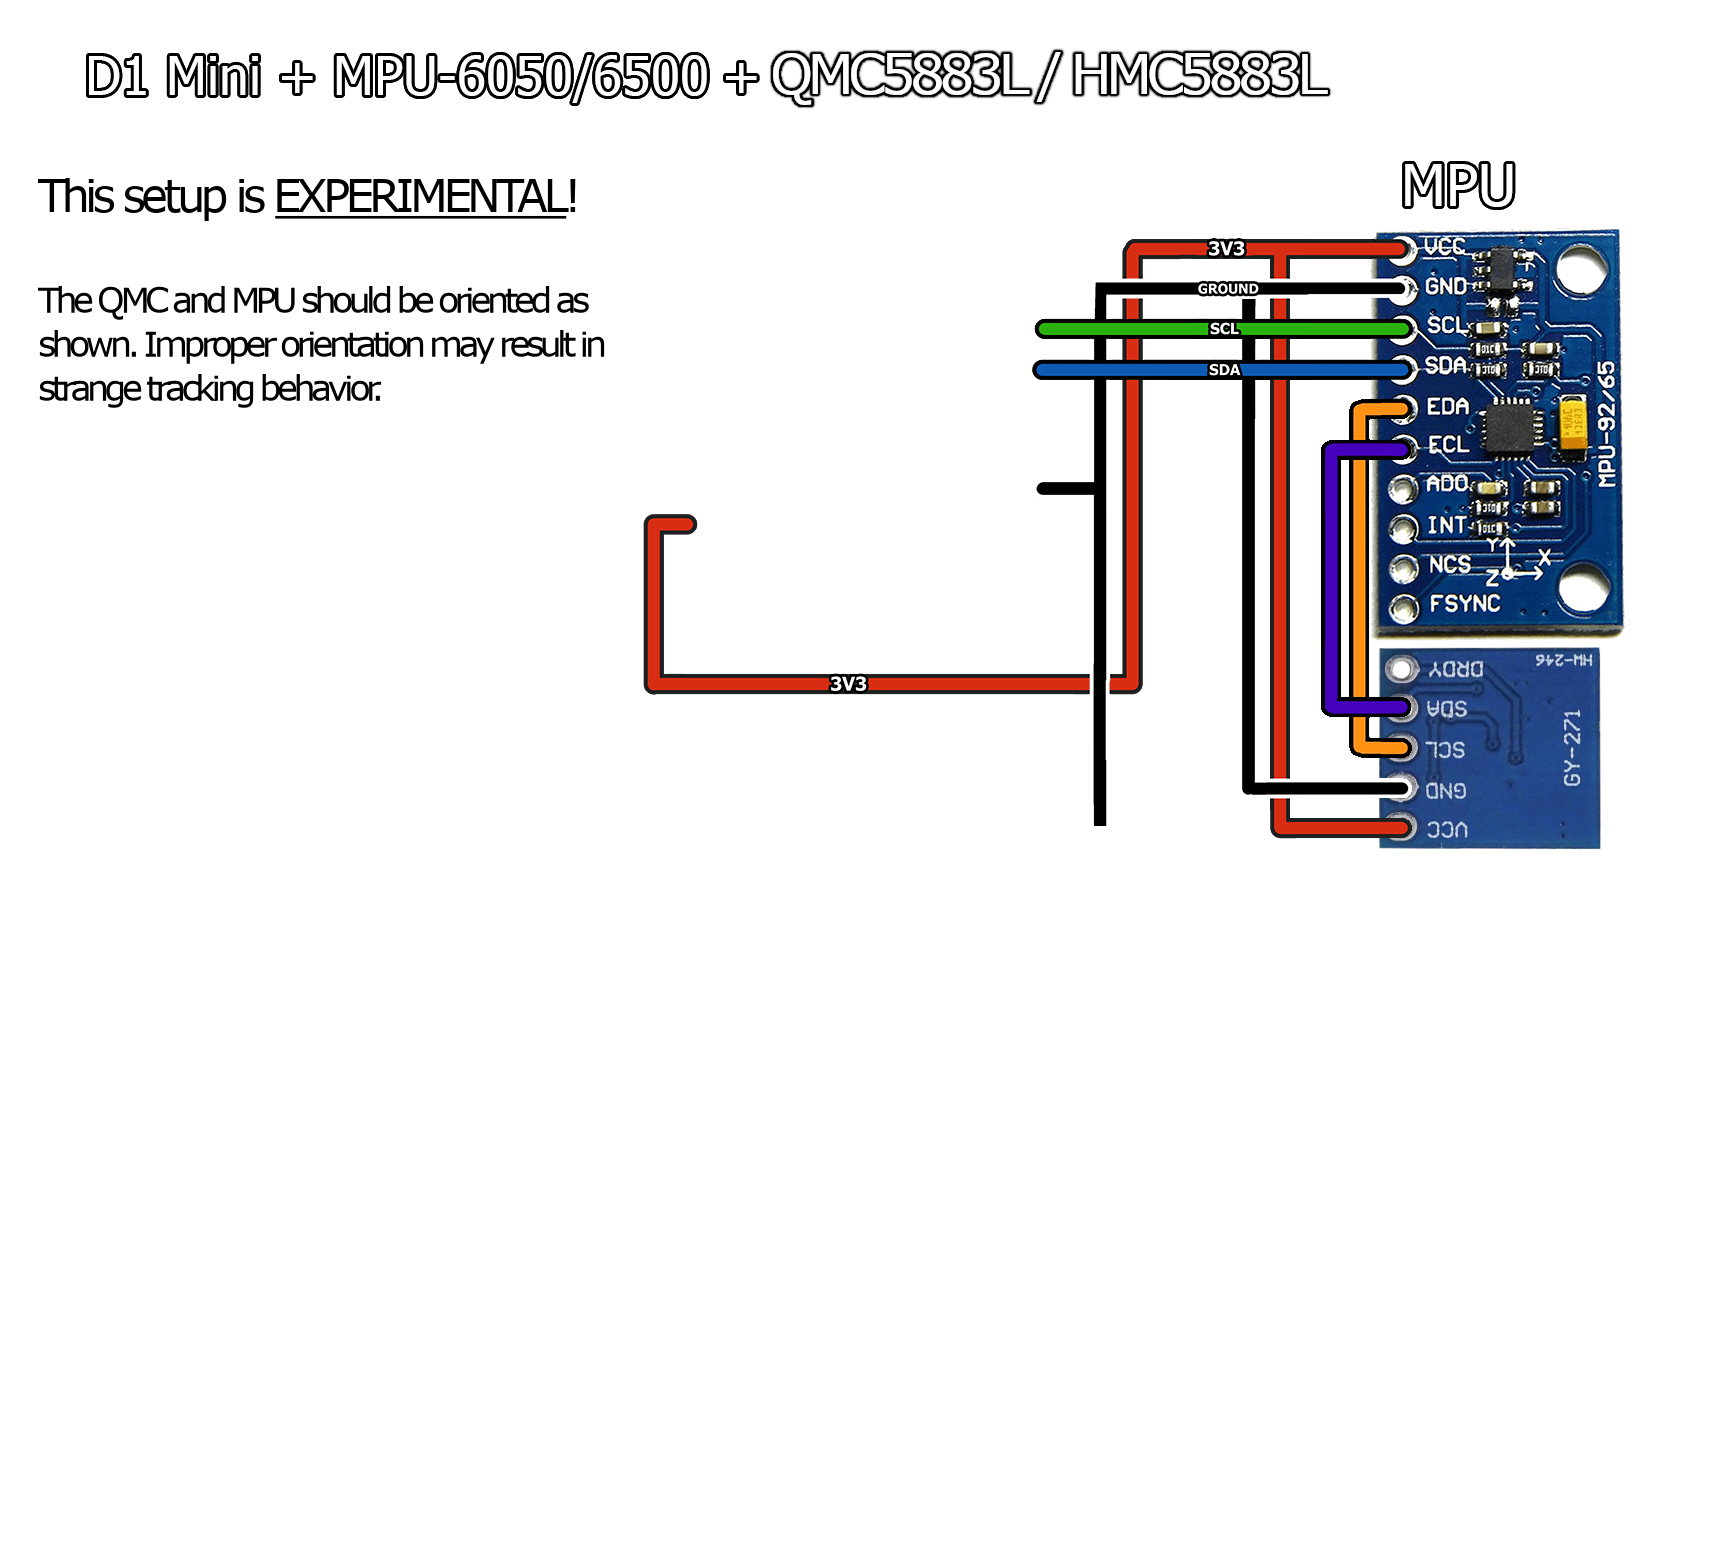
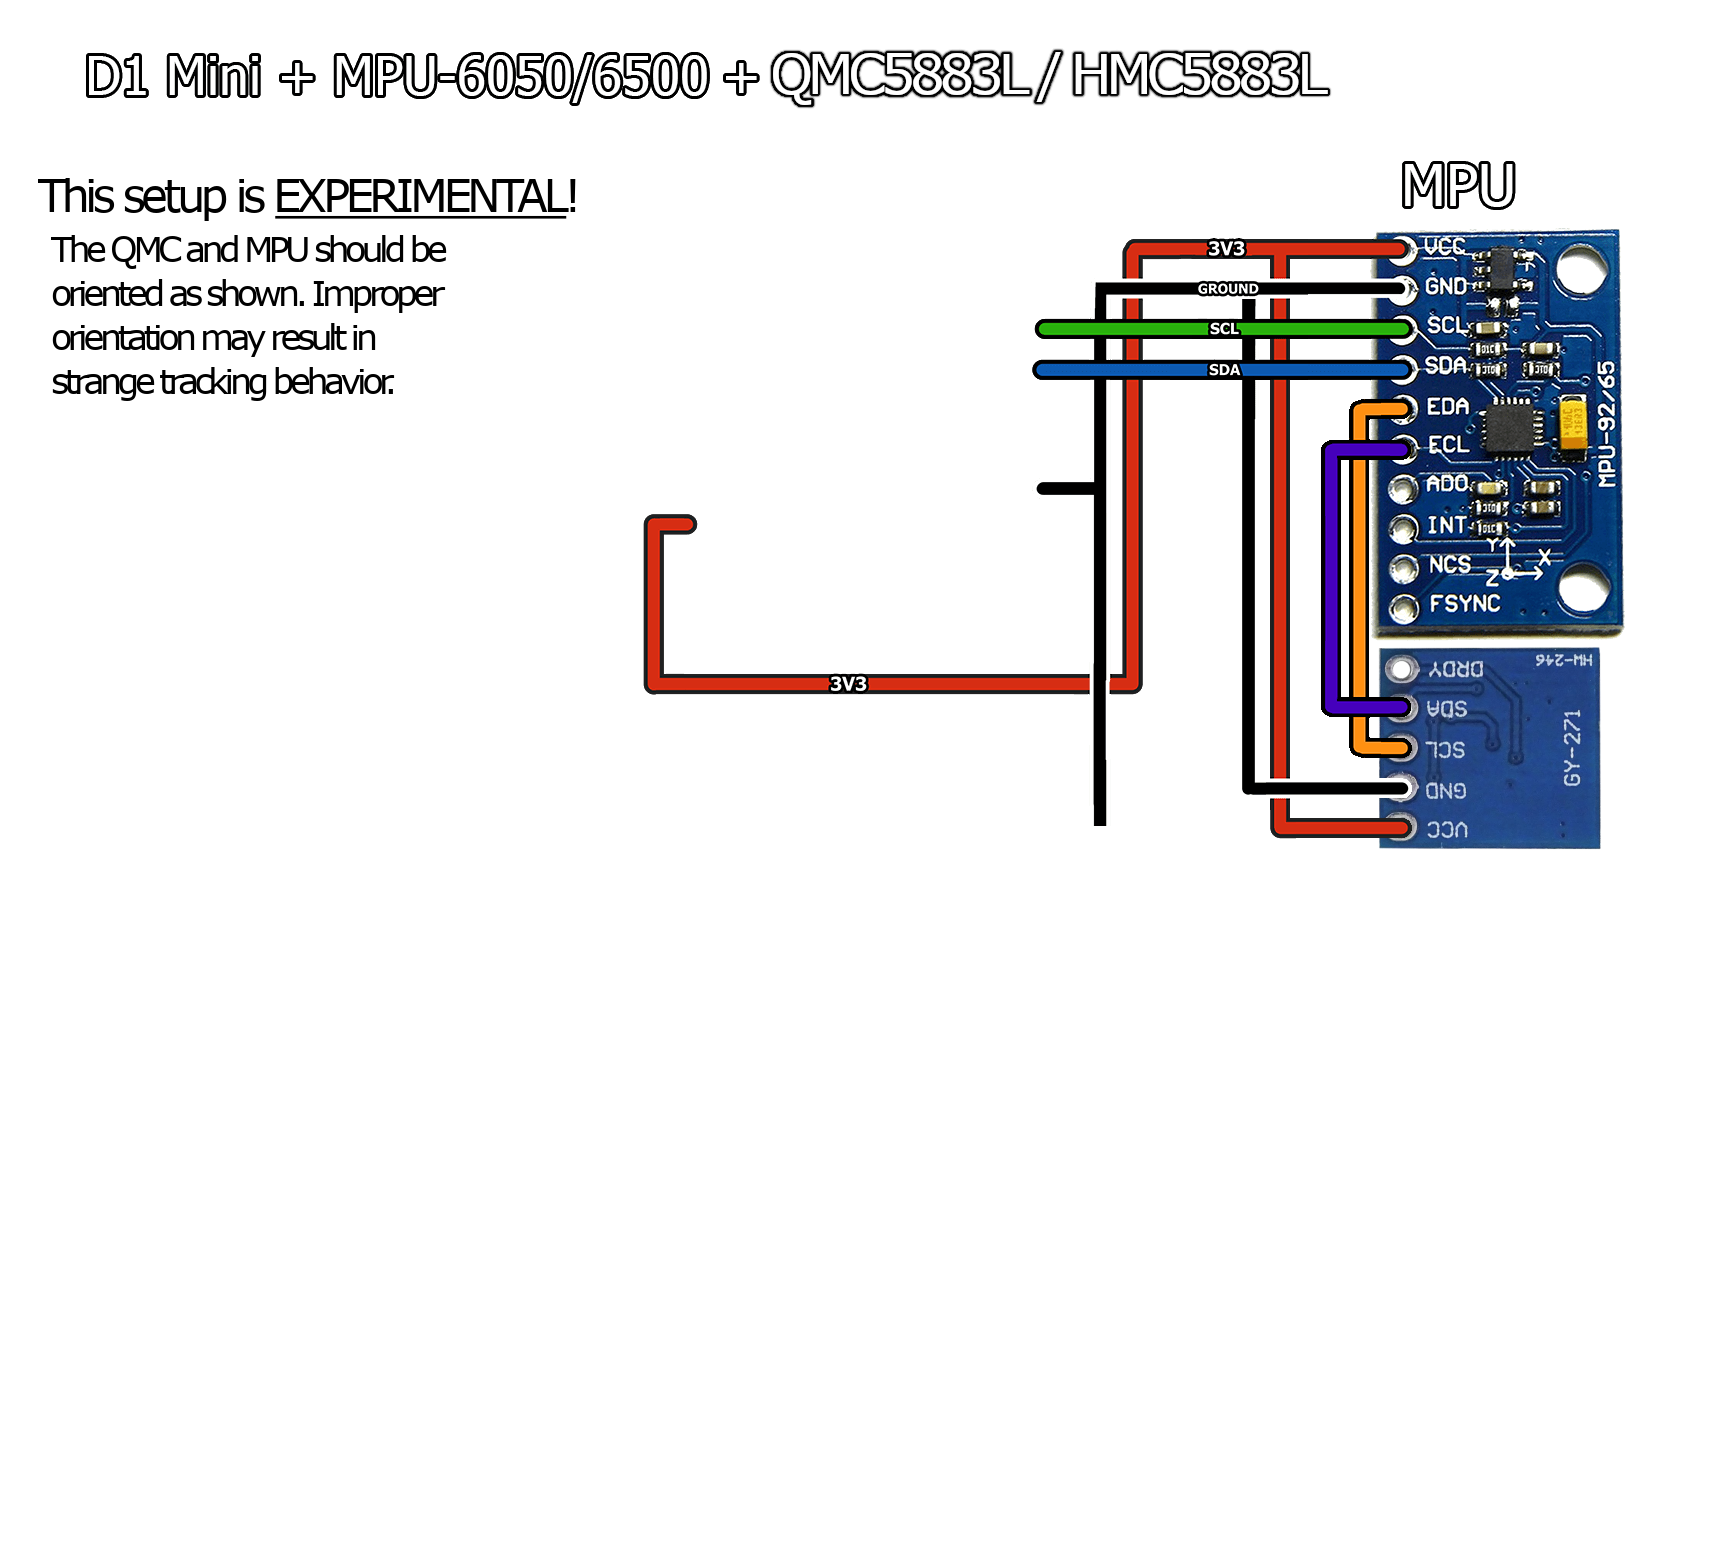
Fixed Schematic, Added MPU+QMC and minor updates to IMU Comparison
MPU+QMC previously had text which was covered when the Battery sense option was selected. That text has been adjusted to accommodate for this.

Updated IMU Comparison to include notice on the difficulty of acquiring MPU9250s.

Updated BMI160 information, and rating to reflect current average of score on the SlimeVR Experience Survey. Also removed extraneous "con".

MPU+QMC5883L added to IMU Comparison page, with clear and repeated notes of its experimental nature.

Changed region(s): [[0.0308, 0.1546, 0.3386, 0.2784]]

diff --git a/diy/imu-comparison.md b/diy/imu-comparison.md
@@ -18,6 +18,7 @@ Following completing your own trackers, you can complete an extended version of 
 - [MPU9250](#mpu9250)
 - [ICM20948](#icm20948)
 - [BMI160](#bmi160)
+- [MPU+QMC5883L](#mpu+qmc5883L)
 - [Addendum](#addendum)
 
 ## Criteria
@@ -110,17 +111,17 @@ The MPU9250 (currently ran in several modes) is a newer installment of the MPU l
 
 |Reset time |Cost |Availability|Build quality|
 |:---------:|:---:|:----------:|:-----------:|
-|10 - 40 min|~$7  |Sufficient  |Mediocre     |
+|10 - 40 min|~$7  |Insufficient|Mediocre     |
 
 Score: <i class="fa fa-star"></i><i class="fa fa-star"></i><i class="fa fa-star"></i><i class="fa fa-star-o" ></i><i class="fa fa-star-o" ></i>
 
 |Pros             |Cons                                             |
 |-----------------|-------------------------------------------------|
-|Affordable       |Prone to clones/counterfeit units                |
-|High availability|Potentially sensitive to bad magnetic enviroments|
-|Decent tracking  |Requires manual calibration the first time       |
+|Affordable       |Very prone to counterfeit/DOA units              |
+|Smooth           |Sensitive to bad magnetic enviroments            |
+|Reliable         |Requires manual calibration the first time       |
 
-`Comment: Some sellers sell clones which do not work, check reviews and place orders with care.`
+`Comment: Finding legitimate MPU9250s has become exceedingly difficult due to counterfeits and DOA IMUs. Buy at your own risk.`
 
 ---
 ## ICM20948
@@ -160,16 +161,37 @@ The chip's ratings could potentially improve with more testing.
 
 |Reset time |Cost  |Availability|Build quality|
 |:---------:|:----:|:----------:|:-----------:|
-|1 - 10min  |~$2.50|Sufficient  |Good         |
+|5 - 10min  |~$2.50|Sufficient  |Good         |
 
-Score: <i class="fa fa-star"></i><i class="fa fa-star"></i><i class="fa fa-star-half-o"></i><i class="fa fa-star-o"></i><i class="fa fa-star-o" ></i>
+Score: <i class="fa fa-star"></i><i class="fa fa-star"></i><i class="fa fa-star"></i><i class="fa fa-star-o"></i><i class="fa fa-star-o" ></i>
 
 |Pros             |Cons                                             |
 |-----------------|-------------------------------------------------|
 |Cheap            |Currently still in testing                       |
-|Reliable         |Equal to the MPU6050 with better Build quality   |
+|Reliable         |Requires manual calibration the first time       |
 
-`Comment: Still in very early stages of testing.`
+`Comment: Still in very early stages of testing, but appears to be better or equal to the MPU6050 and with better build quality.`
+
+---
+## MPU+QMC5883L
+This is a highly experimental setup that approximately matches an MPU9250.
+Unlike other IMUs which consist of a single PCB, this instead relies on connecting a magnetometer to an MPU6050 or MPU6500.
+Both the QMC5883L and HMC5883L may be used, however, the QMC5883L may potentially perform better.
+
+
+|Reset time |Cost  |Availability|Build quality|
+|:---------:|:----:|:----------:|:-----------:|
+|10 - 40min |~$2.50|Sufficient  |Mixed        |
+
+Score: <i class="fa fa-star"></i><i class="fa fa-star"></i><i class="fa fa-star"></i><i class="fa fa-star-half-o"></i></i><i class="fa fa-star-o" ></i>
+
+|Pros             |Cons                                             |
+|-----------------|-------------------------------------------------|
+|Cheap            |Very experimental                                |
+|Smooth           |Requires manual calibration the first time       |
+|Reliable         |Sensitive to bad magnetic enviroments            |
+
+`Comment: Requires experimental firmware.`
 
 ---
 # Addendum

diff --git a/firmware/setup-and-install.md b/firmware/setup-and-install.md
@@ -70,7 +70,7 @@ Make sure you close any current projects you have open or open a new window befo
 
    ![img](https://i.imgur.com/C0uCdOD.png)
 
-1. (MPU+QMC5883L only)  Click the **Source Control** button, click on **main** and choose **qmc-mag-new** from the dropdown.
+1. **(MPU+QMC5883L only)**  Click the **Source Control** button, click on **main** and choose either **qmc-mag-new** or **hmc-mag** from the dropdown depending on whether you're using a QMC5883L or an HMC5883L.
 
    ![img](https://files.catbox.moe/5v51o8.gif)
 
